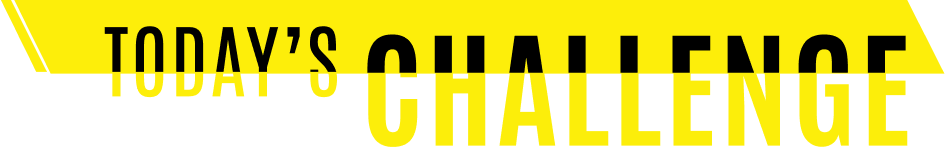
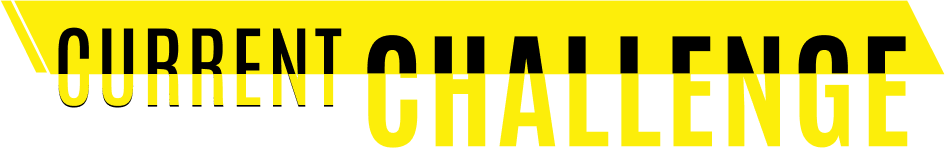
nav links fixed challenge text changed

diff --git a/src/Pages/components/Navbar/Navbar.jsx b/src/Pages/components/Navbar/Navbar.jsx
@@ -1,13 +1,14 @@
 import React from "react";
 import styles from "./Navbar.module.css";
 import top100 from "../../assets/top100logo.png";
-import gtech from "../../assets/gtech.webp";
-import { useLocation } from "react-router-dom";
+import gtech from "../../assets/navgtech.png";
+import kerala from '../../assets/kerala.png'
+// import { useLocation } from "react-router-dom";
 
 export default function Navbar() {
   const navbar = React.useRef(null);
-  const location = useLocation();
-  const path = location.pathname;
+  // const location = useLocation();
+  // const path = location.pathname;
 
   React.useEffect(() => {
     var prevScrollpos = window.pageYOffset;
@@ -31,6 +32,9 @@ export default function Navbar() {
           <a href="/leaderboard">Top 100</a>
         </div>
         <div className={styles.navbarlinks}>
+          <a href="https://startupmission.kerala.gov.in/" target="_blank" rel="noreferrer">
+            <img className={styles.kerala} src={kerala} alt="" />
+          </a>
           <a href="https://mulearn.org/" target="_blank" rel="noreferrer">
             <img className={styles.gtechLogo} src={gtech} alt="" />
           </a>

diff --git a/src/Pages/components/Navbar/Navbar.module.css b/src/Pages/components/Navbar/Navbar.module.css
@@ -32,7 +32,11 @@
 }
 
 .nav .gtechLogo {
-    height: 3rem;
+    height: 1.5rem;
+}
+
+.nav .kerala {
+    height: 2.8rem;
 }
 
 @media(max-width: 768px) {
@@ -49,10 +53,6 @@
 @media(max-width: 540px) {
     .nav .top100Logo {
         height: 2.1rem;
-    }
-
-    .nav .gtechLogo {
-        height: 1.8rem;
     }
 }
 
@@ -78,10 +78,10 @@
     color: #1d1d1d;
 }
 
-.navbarlinks{
+.navbarlinks {
     display: flex;
     flex-direction: row;
     flex-wrap: wrap;
     justify-content: center;
-    align-self: center;
+    align-items: center;
 }

diff --git a/src/Pages/components/Challenge/Challenge.module.css b/src/Pages/components/Challenge/Challenge.module.css
@@ -13,7 +13,7 @@
 .challenge .heading {
     height: 8rem;
     position: absolute;
-    top: 0%;
+    top: -0.2%;
     left: 35%;
     transform: translate(-40%);
 }
